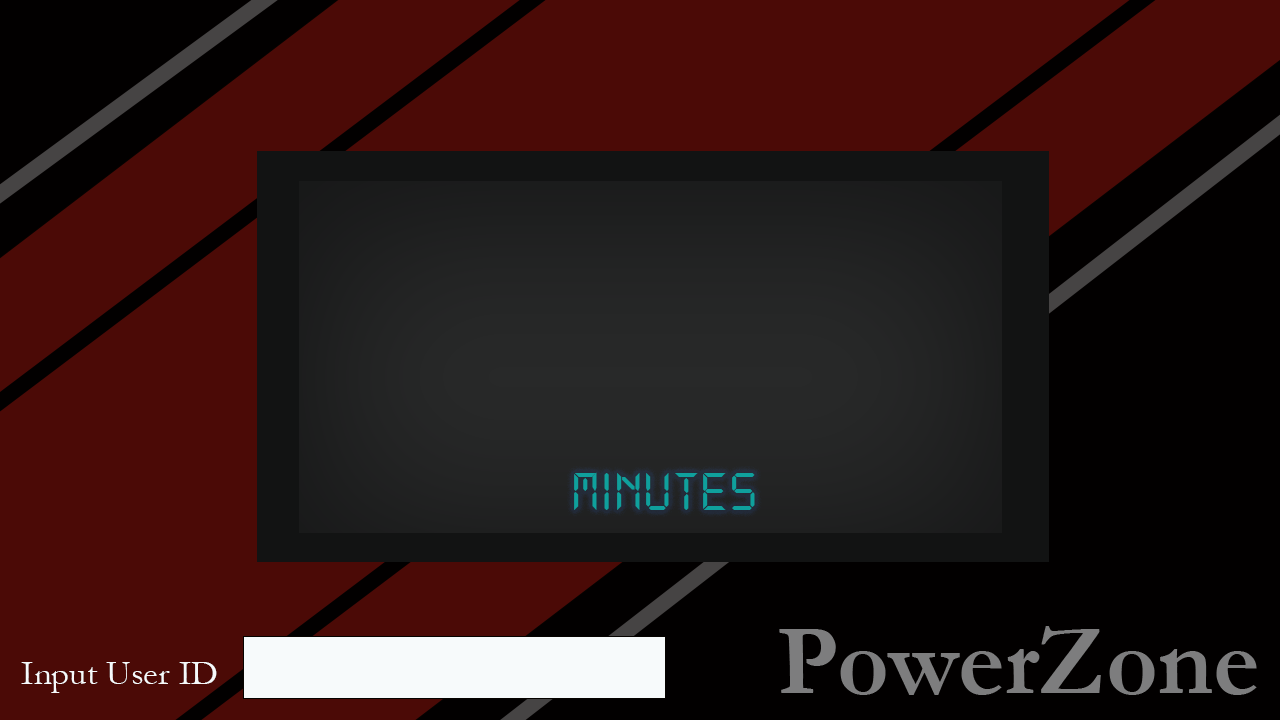
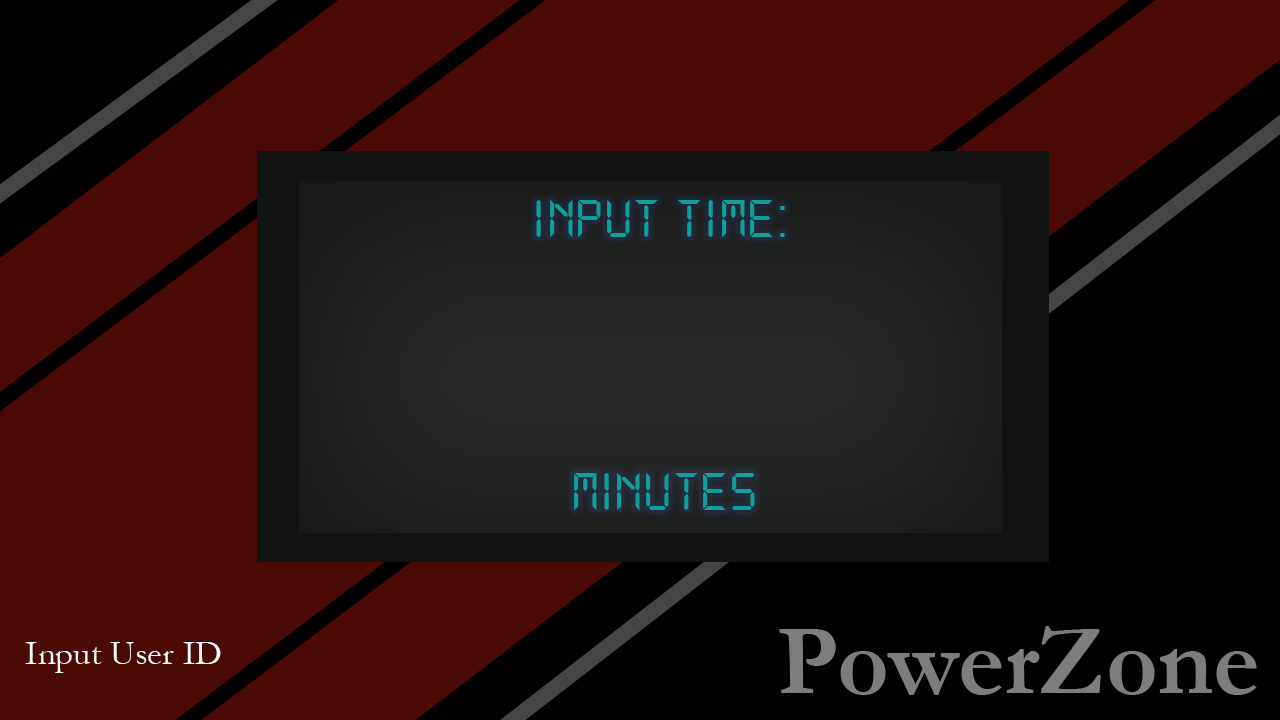
finished opening GUI and began other elements

Changed region(s): [[0.0, 0.8861, 0.5312, 0.9778], [0.4062, 0.275, 0.625, 0.3361]]

diff --git a/OpenerGUI.java b/OpenerGUI.java
@@ -1,4 +1,5 @@
 import java.io.*;
+import java.util.concurrent.Flow;
 import java.awt.*;
 import java.awt.Image;
 import javax.imageio.ImageIO;
@@ -6,28 +7,75 @@ import javax.swing.ImageIcon;
 import javax.swing.JFrame;
 import javax.swing.JLabel;
 import javax.swing.JPanel;
+import javax.swing.JSpinner;
+import javax.swing.JTextField;
+import javax.swing.JTextPane;
 
 import java.awt.Toolkit;
 
 public class OpenerGUI extends JFrame {
     String customerID = "#####";
     int timeBooked;
+    BookButton bookButton = new BookButton(this.customerID,this);
+    final ImageIcon backgroundIcon = new ImageIcon("PowerZoneOpenerScreen.png");
+    Image backgroundImage = backgroundIcon.getImage();
     Image background;
+    JTextField textField = new JTextField("Here");
+    JLabel myJLabel = new JLabel(backgroundIcon);
+    File font_file = new File("DS-DIGI.TTF");
+    Font digiFont = new Font("Serif", Font.PLAIN, 30);
+    Color fontColor = new Color(15,160,157);
+    JTextField timeSelect = new JTextField("15");
+
+    private void setTextLocation(){
+        this.textField.setBounds(240,620,420,70);
+        this.textField.setOpaque(false);
+        this.textField.setBorder(null);
+        this.textField.setFont(digiFont);
+        this.textField.setForeground(fontColor);
+    }
+
+    private void setTextLocationTimeSelect(){
+        this.timeSelect.setSize(420,70);
+        this.timeSelect.setHorizontalAlignment(JTextField.CENTER);
+        this.timeSelect.setBounds(485,325,350,70);
+        this.timeSelect.setOpaque(false);
+        this.timeSelect.setBorder(null);
+        this.timeSelect.setFont(digiFont);
+        this.timeSelect.setForeground(fontColor);
+    }
+    
+
 
     public OpenerGUI() {
-        BookButton bookButton = new BookButton(this.customerID, this);
-        final ImageIcon backgroundIcon = new ImageIcon("PowerZoneOpenerScreen.png");
-        Image backgroundImage = backgroundIcon.getImage();
-        JLabel myJLabel = new JLabel(backgroundIcon);
-        myJLabel.setVisible(true);
+        
+        
+        //myJLabel.setVisible(true);
         myJLabel.setIcon(backgroundIcon);
+        this.setLayout(null);
         this.add(bookButton);
+        textField.setFont(digiFont);
+
+        
+        this.myJLabel.add(textField);
+        
+        this.myJLabel.setLayout(null);
+        setTextLocation();
+
+        this.myJLabel.add(timeSelect);
+        setTextLocationTimeSelect();
+        myJLabel.setBounds(0,0,1280,720);
+        
         bookButton.setBounds(515, 0, 300, 100);
-        this.add(myJLabel);
         this.setVisible(true);
         this.setSize(1280, 720);
         this.setResizable(false);
         this.setDefaultCloseOperation(EXIT_ON_CLOSE);
         this.setLocationRelativeTo(null);
+       
+        this.add(myJLabel);
+        this.timeBooked = Integer.parseInt(timeSelect.getText());
+        
+        
     }
 }

diff --git a/ReturnButton.java b/ReturnButton.java
@@ -1,11 +1,12 @@
 import javax.swing.JButton;
+import javax.swing.JDialog;
 import javax.swing.JFrame;
 
 public class ReturnButton extends JButton{
     
     
 
-    public void press (JFrame frame) {
+    public void press (JDialog frame) {
         OpenerGUI window = new OpenerGUI();
         window.setVisible(true);
         frame.setVisible(false);;
@@ -14,10 +15,10 @@ public class ReturnButton extends JButton{
 
     
 
-    public ReturnButton(JFrame frame) {
+    public ReturnButton(JDialog frame) {
         super();
         this.addActionListener(e -> press(frame));
-        this.setText("re-book");
+    
     }
 
 }

diff --git a/BookedGUI.java b/BookedGUI.java
@@ -1,5 +1,19 @@
+import javax.swing.ImageIcon;
+import javax.swing.JDialog;
 import javax.swing.JFrame;
+import javax.swing.JLabel;
 
-public class BookedGUI extends JFrame{
+public class BookedGUI extends JDialog {
+    ImageIcon background = new ImageIcon("BookingPopUp.png");
+    JLabel myJLabel = new JLabel(background);
+    ReturnButton myReturnButton = new ReturnButton(this);
     
+    public BookedGUI() {
+        this.setSize(500, 600);
+        this.add(myJLabel);
+        this.add(myReturnButton);
+        myReturnButton.setBounds(100,100,100,300);
+
+    }
+
 }

diff --git a/BookButton.java b/BookButton.java
@@ -4,8 +4,9 @@ import javax.swing.JButton;
 import javax.swing.JFrame;
 
 public class BookButton extends JButton {
-    JFrame frame;
+    private JFrame frame;
     static Icon icon = new ImageIcon("BookButton.png");
+    
 
     public void book(Customer customer, JFrame frame) {
         if (customer.validateCustomerID(customer.getCustomerID()) == true) {

diff --git a/ErrorGUI.java b/ErrorGUI.java
@@ -1,5 +1,8 @@
+import javax.swing.JDialog;
 import javax.swing.JFrame;
 
-public class ErrorGUI extends JFrame {
+public class ErrorGUI extends JDialog {
+   // Jlabel image = new Jlabel(
+
     
 }
